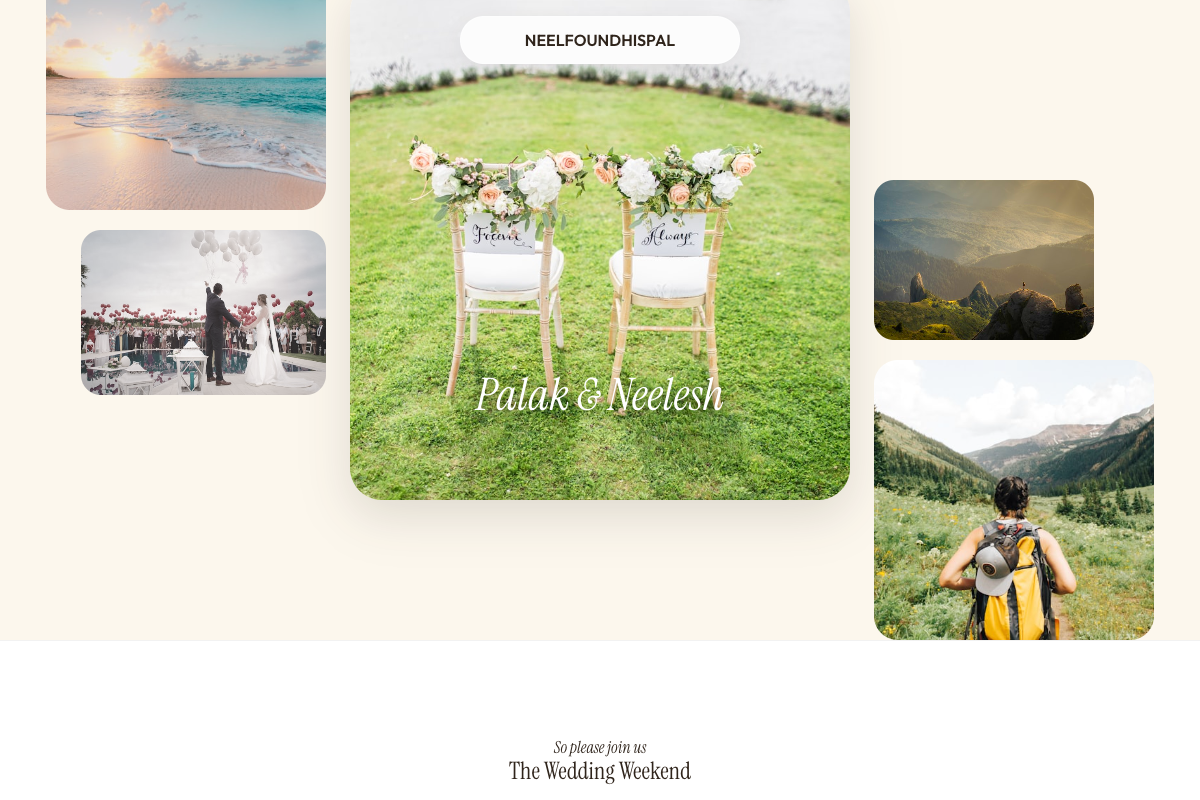
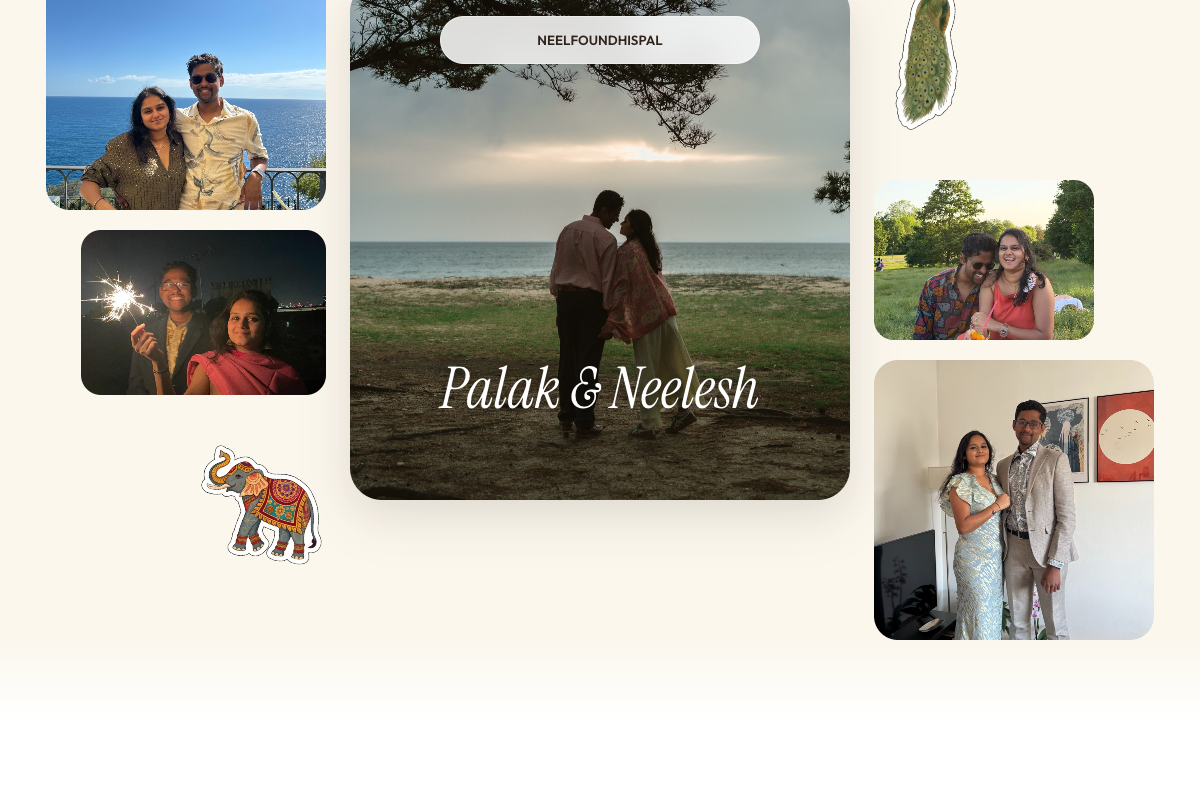
style: update design system with new color palette, adjust section spacing, and refine typography and captions

diff --git a/src/components/StorySection.jsx b/src/components/StorySection.jsx
@@ -12,7 +12,7 @@ import imgBeachFriends from '../assets/images/full_size/PXL_20230521_103227395.j
 import imgCsLunch from '../assets/images/full_size/cs_lunch.jpg';
 import imgCsFriends from '../assets/images/full_size/cs_friends.jpg';
 import imgFirstDate from '../assets/images/full_size/IMG_0846.jpg';
-import imgCroatia from '../assets/images/full_size/IMG_1361.jpg';
+import imgCroatia from '../assets/images/full_size/FullSizeRender.jpg';
 import imgWalks from '../assets/images/full_size/IMG_7149.jpg';
 import imgDates from '../assets/images/full_size/IMG_2721.jpg';
 import imgExploring from '../assets/images/full_size/IMG_0070.jpg';
@@ -61,7 +61,7 @@ export default function StorySection() {
     {
       id: 0,
       url: imgBeachFriends,
-      caption: 'Our first picture together',
+      caption: 'our first picture together',
       trigger: 0,
       angle: -5,
       x: -12,
@@ -72,7 +72,7 @@ export default function StorySection() {
     {
       id: 1,
       url: imgCsLunch,
-      caption: 'The first time we met',
+      caption: 'the first time we met',
       trigger: 0.1,
       angle: 4,
       x: 10,
@@ -83,7 +83,7 @@ export default function StorySection() {
     {
       id: 2,
       url: imgCsFriends,
-      caption: 'Our last work event together',
+      caption: 'our last work event together',
       trigger: 0.2,
       angle: -2,
       x: -6,
@@ -94,7 +94,7 @@ export default function StorySection() {
     {
       id: 3,
       url: imgFirstDate,
-      caption: 'Our first Date <3',
+      caption: 'our first date <3',
       trigger: 0.3,
       angle: 6,
       x: 8,
@@ -105,7 +105,7 @@ export default function StorySection() {
     {
       id: 4,
       url: imgCroatia,
-      caption: 'Us basking in the sun',
+      caption: 'laughing at any time of day',
       trigger: 0.4,
       angle: -4,
       x: -10,
@@ -116,7 +116,7 @@ export default function StorySection() {
     {
       id: 5,
       url: imgDates,
-      caption: 'Dining in the west end',
+      caption: 'dining in the west end',
       trigger: 0.5,
       angle: 3,
       x: 5,
@@ -127,7 +127,7 @@ export default function StorySection() {
     {
       id: 6,
       url: imgWalks,
-      caption: 'Starting to plan our wedding',
+      caption: 'starting to plan our wedding',
       trigger: 0.6,
       angle: -6,
       x: -14,
@@ -138,7 +138,7 @@ export default function StorySection() {
     {
       id: 7,
       url: imgExploring,
-      caption: 'Mario Karting in Tokyo',
+      caption: 'mario karting in tokyo',
       trigger: 0.7,
       angle: 5,
       x: 12,
@@ -149,7 +149,7 @@ export default function StorySection() {
     {
       id: 8,
       url: imgLastImage,
-      caption: 'Always by your side',
+      caption: 'always by your side',
       trigger: 0.8,
       angle: -1,
       x: -2,
@@ -220,16 +220,18 @@ export default function StorySection() {
         style={{
           height: '100vh',
           borderBottomColor: 'rgba(47, 36, 27, 0.05)',
+          paddingTop: isMobile ? '2.5rem' : '5rem',
         }}
       >
         {/* Lowercase Title */}
         <h2
-          className="font-display text-text-primary text-center select-none"
+          className="font-display text-center select-none"
           style={{
             fontSize: isMobile ? '3.6rem' : '6rem',
             textTransform: 'lowercase',
             marginBottom: isMobile ? '1.5rem' : '2.5rem',
-            marginTop: isMobile ? '2.5rem' : '0',
+            marginTop: '0',
+            color: 'var(--palette-red)',
           }}
         >
           our story

diff --git a/src/components/CountdownSection.jsx b/src/components/CountdownSection.jsx
@@ -69,7 +69,7 @@ export default function CountdownSection() {
   return (
     <section 
       ref={sectionRef} 
-      className="relative bg-white w-full flex items-center justify-center border-b"
+      className="relative bg-bg-main w-full flex items-center justify-center border-b"
       style={{
         paddingTop: isMobile ? '3rem' : '5rem',
         paddingBottom: isMobile ? '4rem' : '7rem',
@@ -83,7 +83,7 @@ export default function CountdownSection() {
         style={{
           left: isMobile ? '-60px' : '2%',
           top: isMobile ? '5%' : '8%',
-          width: isMobile ? '120px' : '300px',
+          width: isMobile ? '156px' : '390px',
           height: 'auto',
           opacity: stencilOpacity * (isMobile ? 0.5 : 1.0),
           transform: `translate3d(0, ${leftTranslateY}px, 0)`,
@@ -118,28 +118,16 @@ export default function CountdownSection() {
           paddingRight: '24px',
         }}
       >
-        <span 
-          className="font-semibold uppercase block"
-          style={{
-            fontSize: '11px',
-            letterSpacing: '0.4em',
-            color: 'var(--accent-color)',
-            marginBottom: '2rem',
-          }}
-        >
-          The Promise
-        </span>
-        
         <h2 
-          className="font-display italic text-text-primary font-normal"
+          className="font-display text-text-primary font-normal"
           style={{
             fontSize: isMobile ? '2.1rem' : '3.6rem',
             lineHeight: 1.45,
           }}
         >
           “The countdown to forever begins {!isMobile && <br />}
-          with a celebration of <span style={{ color: 'var(--accent-color)' }}>love, laughter</span> {!isMobile && <br />}
-          and <span style={{ borderBottom: '1px solid rgba(138, 90, 43, 0.25)', paddingBottom: '3px' }}>happily ever after</span>”
+          with a celebration of <span style={{ color: 'var(--palette-red)' }}>love, laughter</span> {!isMobile && <br />}
+          and happily ever after”
         </h2>
 
         {/* Elegant vertical visual anchor */}

diff --git a/src/components/ScrollCollage.jsx b/src/components/ScrollCollage.jsx
@@ -3,7 +3,7 @@ import { Menu, X, ArrowDown } from 'lucide-react';
 import peacockSticker from '../assets/images/stickers/peacock_sticker.png';
 import elephantSticker from '../assets/images/stickers/elephant_sticker.png';
 import heroImage from '../assets/images/full_size/Neelesh & Palak Engagement - Awajishima, Keino Beach-34.jpg';
-import imgBeach from '../assets/images/full_size/FullSizeRender.jpg';
+import imgBeach from '../assets/images/full_size/IMG_1361.jpg';
 import imgDancing from '../assets/images/full_size/IMG-20231106-WA0009.jpg';
 import imgCanyon from '../assets/images/full_size/IMG_7459.jpg';
 import imgFeet from '../assets/images/full_size/IMG_4572.jpg';
@@ -157,12 +157,12 @@ export default function ScrollCollage() {
             width: `min(100vw, ${1200 - (1200 - 320) * navProgress}px)`,
             height: '48px',
             borderRadius: `${navProgress * 9999}px`,
-            backgroundColor: `rgba(255, 255, 255, ${navProgress * 0.85})`,
+            backgroundColor: `rgba(102, 120, 3, ${navProgress * 0.95})`,
             backdropFilter: navProgress > 0 ? `blur(${navProgress * 16}px)` : 'none',
             WebkitBackdropFilter: navProgress > 0 ? `blur(${navProgress * 16}px)` : 'none',
-            border: navProgress > 0 ? `1px solid rgba(255, 255, 255, ${navProgress * 0.4})` : '1px solid transparent',
+            border: navProgress > 0 ? `1px solid rgba(255, 255, 255, ${navProgress * 0.2})` : '1px solid transparent',
             boxShadow: navProgress > 0.5 ? '0 8px 24px rgba(47, 36, 27, 0.08)' : 'none',
-            color: `rgb(${Math.round(255 - 208 * navProgress)}, ${Math.round(255 - 219 * navProgress)}, ${Math.round(255 - 228 * navProgress)})`,
+            color: '#ffffff',
             paddingLeft: '24px',
             paddingRight: '24px',
           }}

diff --git a/src/components/EventCountdown.jsx b/src/components/EventCountdown.jsx
@@ -47,8 +47,8 @@ export default function EventCountdown({
       style={{
         backgroundColor: '#fcf7ed',
         width: '100%',
-        paddingTop: isMobile ? '5rem' : '8rem',
-        paddingBottom: isMobile ? '5rem' : '8rem',
+        paddingTop: isMobile ? '2.5rem' : '4rem',
+        paddingBottom: isMobile ? '4rem' : '6rem',
         textAlign: 'center',
         borderBottom: '1px solid rgba(47,36,27,0.07)',
         position: 'relative',
@@ -63,8 +63,9 @@ export default function EventCountdown({
           style={{
             fontFamily: 'var(--font-display)',
             fontStyle: 'italic',
-            fontSize: isMobile ? '1.1rem' : '1.35rem',
-            color: 'var(--text-muted)',
+            fontSize: isMobile ? '2.1rem' : '3.6rem',
+            lineHeight: 1.45,
+            color: 'var(--palette-green)',
             marginBottom: isMobile ? '1.8rem' : '2.5rem',
             letterSpacing: '0.01em',
           }}
@@ -93,7 +94,7 @@ export default function EventCountdown({
             fontFamily: 'var(--font-body)',
             fontWeight: 900,
             fontSize: isMobile ? '1.5rem' : '1.6rem',
-            color: 'var(--accent-color)',
+            color: 'var(--palette-red)',
             letterSpacing: '0.32em',
             textTransform: 'uppercase',
             marginBottom: isMobile ? '3rem' : '4.5rem',

diff --git a/src/App.jsx b/src/App.jsx
@@ -43,12 +43,11 @@ function App() {
       {/* Scroll-driven Collage Hero Section */}
       <ScrollCollage />
 
-      {/* Soft gradient spacer transition from off-white hero to white countdown */}
+      {/* Spacer transition from hero to countdown */}
       <div
-        className="w-full relative z-20"
+        className="w-full relative z-20 bg-bg-main"
         style={{
-          height: '80px',
-          backgroundImage: 'linear-gradient(to bottom, #fcf7ed, #ffffff)'
+          height: '80px'
         }}
       />
 

diff --git a/src/index.css b/src/index.css
@@ -14,6 +14,12 @@
   --shadow-sm: 0 2px 8px rgba(47, 36, 27, 0.04);
   --shadow-md: 0 8px 24px rgba(47, 36, 27, 0.08);
   --shadow-lg: 0 16px 48px rgba(47, 36, 27, 0.15);
+
+  /* New Palette Colors */
+  --palette-red: #D50729;
+  --palette-green: #667803;
+  --palette-cyan: #008E8E;
+  --palette-orange: #FF6600;
   
   /* Font Stacks */
   --font-display: 'Instrument Serif', serif;
